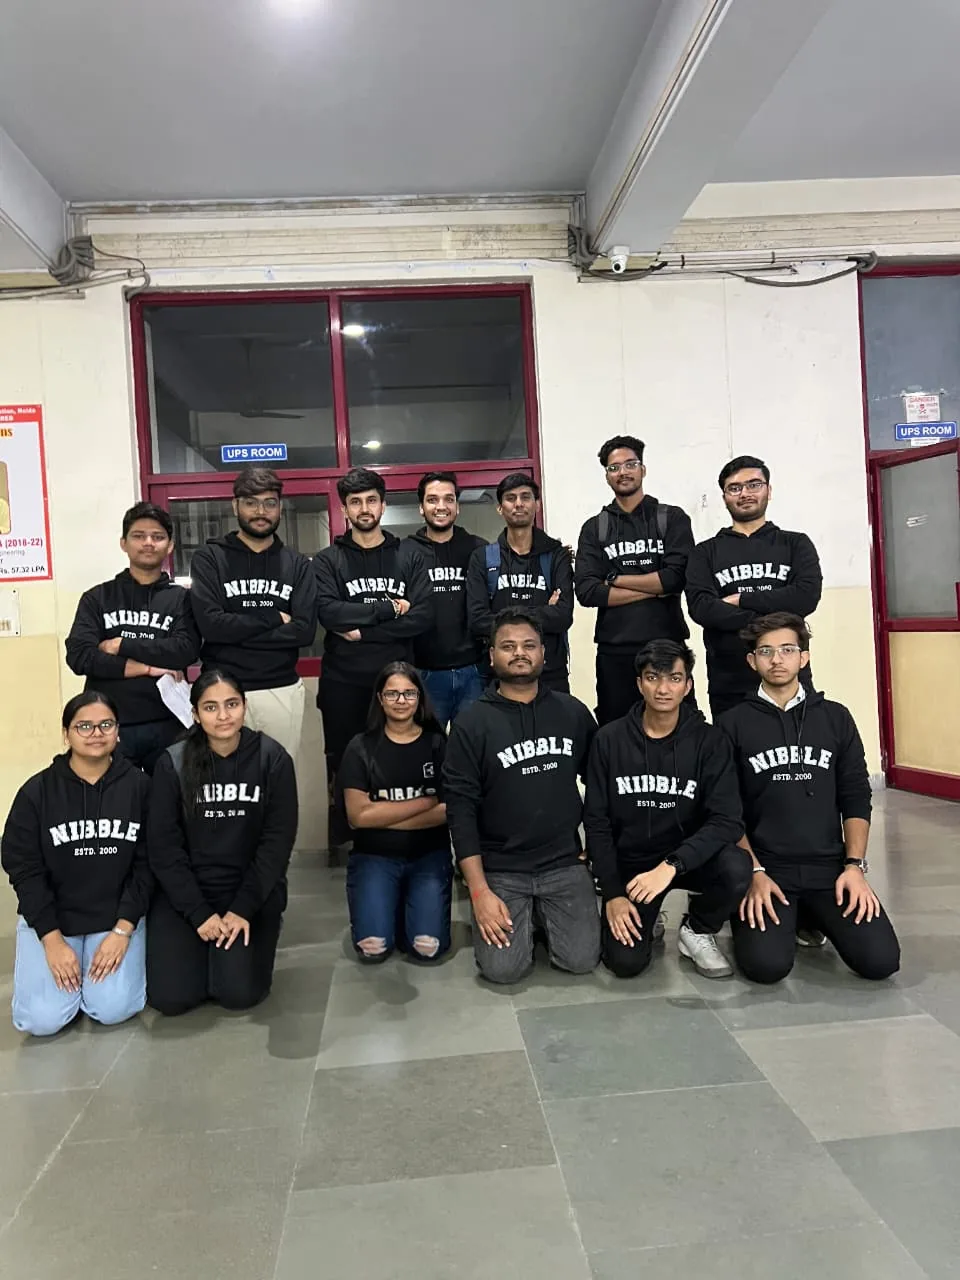
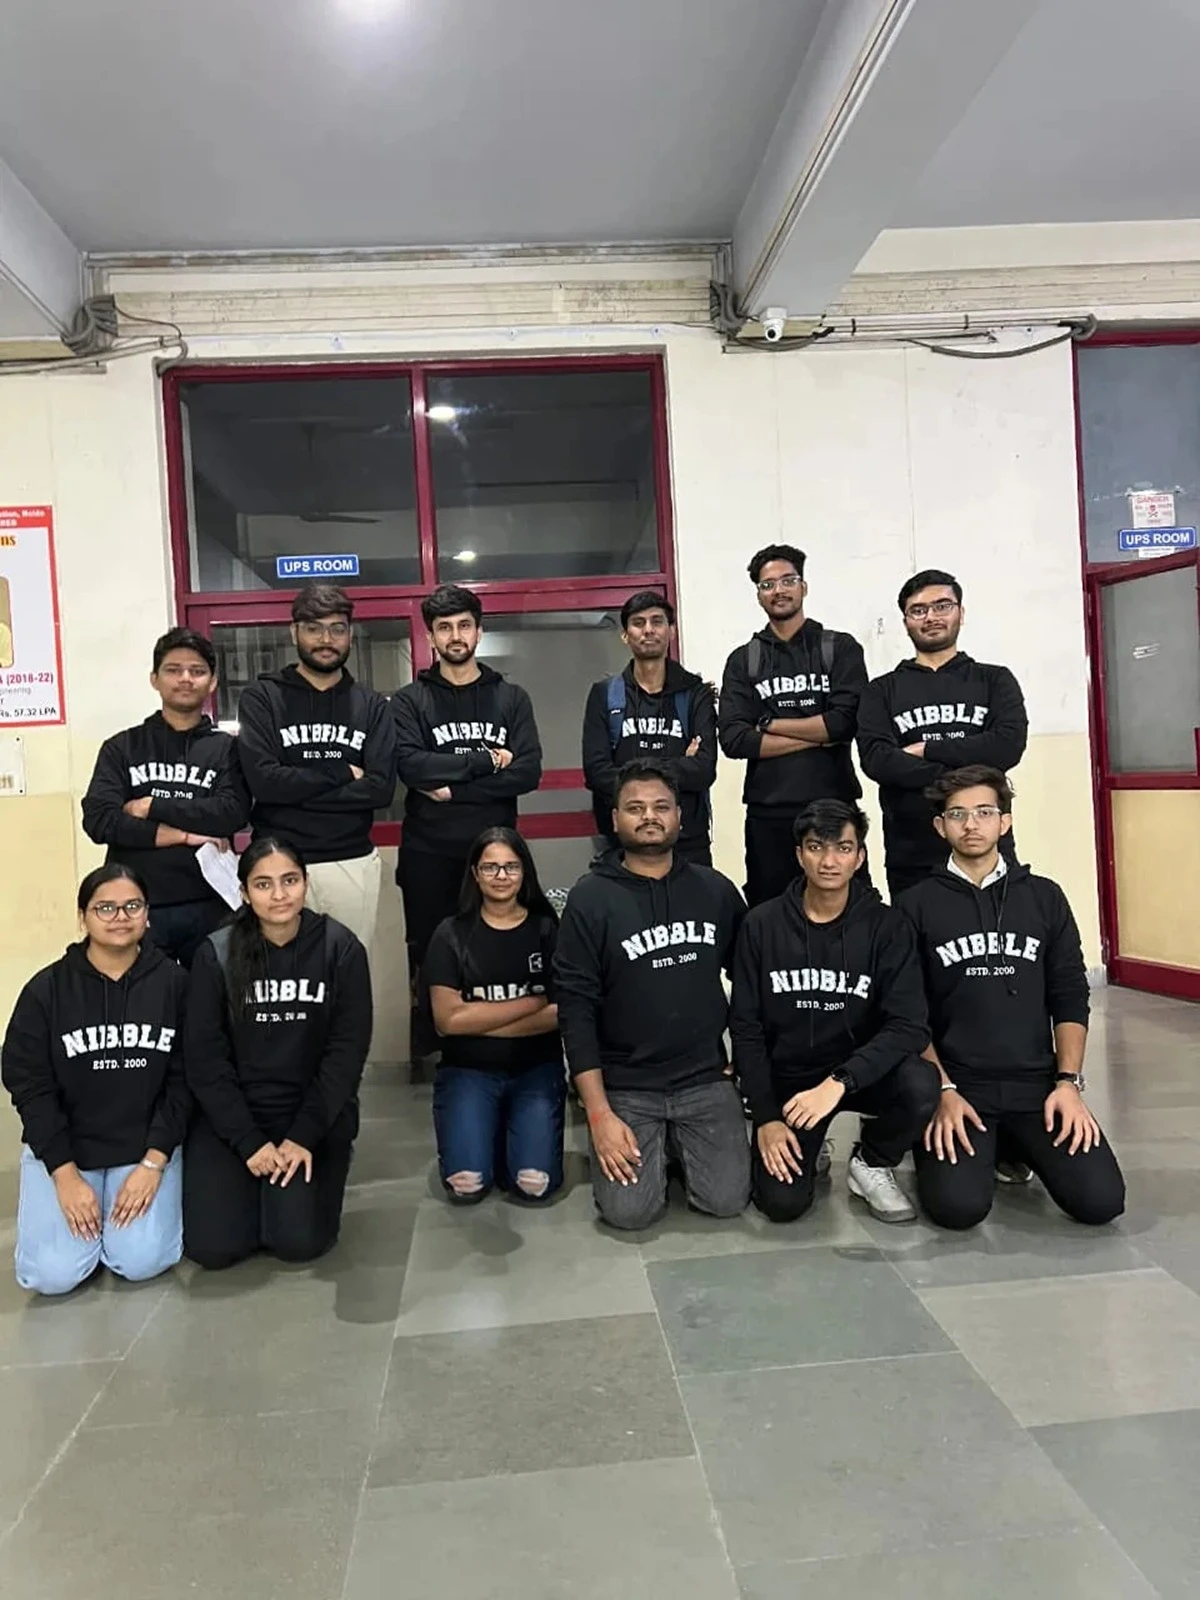
workshop gallery

diff --git a/src/data/galleryPhotos.ts b/src/data/galleryPhotos.ts
@@ -56,9 +56,9 @@ export const nibbleMonthPhotos: GalleryPhoto[] = [
   { id: "workshop-3", image: publicAsset("assets/gallery/workshop/web/workshop_03.webp"), thumb: publicAsset("assets/gallery/workshop/thumbs/workshop_03.webp"), title: "Architecture Walkthrough", caption: "Exploring frontend and backend communication" },
   { id: "workshop-4", image: publicAsset("assets/gallery/workshop/web/workshop_04.webp"), thumb: publicAsset("assets/gallery/workshop/thumbs/workshop_04.webp"), title: "Pair Programming", caption: "Collaborative problem solving and debugging" },
   { id: "workshop-5", image: publicAsset("assets/gallery/workshop/web/workshop_05.webp"), thumb: publicAsset("assets/gallery/workshop/thumbs/workshop_05.webp"), title: "Tech Mentorship", caption: "Mentors assisting students with setup and syntax" },
-  { id: "workshop-6", image: publicAsset("assets/gallery/workshop/web/workshop_06.jpeg"), thumb: publicAsset("assets/gallery/workshop/thumbs/workshop_06.webp"), title: "Interactive Lab", caption: "Real-time practice on developer tooling and Git" },
+  { id: "workshop-6", image: publicAsset("assets/gallery/workshop/web/workshop_06.webp"), thumb: publicAsset("assets/gallery/workshop/thumbs/workshop_06.webp"), title: "Interactive Lab", caption: "Real-time practice on developer tooling and Git" },
   { id: "workshop-7", image: publicAsset("assets/gallery/workshop/web/workshop_07.webp"), thumb: publicAsset("assets/gallery/workshop/thumbs/workshop_07.webp"), title: "Classroom Engagement", caption: "Deep focus during hands-on coding drills" },
-  { id: "workshop-8", image: publicAsset("assets/gallery/workshop/web/workshop_08.jpeg"), thumb: publicAsset("assets/gallery/workshop/thumbs/workshop_08.webp"), title: "Developer Sprint", caption: "Building full-stack prototypes from scratch" },
+  { id: "workshop-8", image: publicAsset("assets/gallery/workshop/web/workshop_08.webp"), thumb: publicAsset("assets/gallery/workshop/thumbs/workshop_08.webp"), title: "Developer Sprint", caption: "Building full-stack prototypes from scratch" },
   { id: "workshop-9", image: publicAsset("assets/gallery/workshop/web/workshop_09.webp"), thumb: publicAsset("assets/gallery/workshop/thumbs/workshop_09.webp"), title: "Code Review Session", caption: "Examining clean code practices and structure" },
   { id: "workshop-10", image: publicAsset("assets/gallery/workshop/web/workshop_10.webp"), thumb: publicAsset("assets/gallery/workshop/thumbs/workshop_10.webp"), title: "Domain Deep Dive", caption: "Exploring web, app, and backend stacks" },
   { id: "workshop-11", image: publicAsset("assets/gallery/workshop/web/workshop_11.webp"), thumb: publicAsset("assets/gallery/workshop/thumbs/workshop_11.webp"), title: "Problem Solving Lab", caption: "Tackling algorithmic edge cases together" },
@@ -70,7 +70,7 @@ export const nibbleMonthPhotos: GalleryPhoto[] = [
   { id: "workshop-17", image: publicAsset("assets/gallery/workshop/web/workshop_17.webp"), thumb: publicAsset("assets/gallery/workshop/thumbs/workshop_17.webp"), title: "Mentor Assistance", caption: "Individual guidance for every aspiring developer" },
   { id: "workshop-18", image: publicAsset("assets/gallery/workshop/web/workshop_18.webp"), thumb: publicAsset("assets/gallery/workshop/thumbs/workshop_18.webp"), title: "Classroom Energy", caption: "Vibrant learning environment and tech curiosity" },
   { id: "workshop-19", image: publicAsset("assets/gallery/workshop/web/workshop_19.webp"), thumb: publicAsset("assets/gallery/workshop/thumbs/workshop_19.webp"), title: "Sprint Completion", caption: "Finalizing workshop assignments and challenges" },
-  { id: "workshop-20", image: publicAsset("assets/gallery/workshop/web/workshop_20.jpeg"), thumb: publicAsset("assets/gallery/workshop/web/workshop_20.jpeg"), title: "Certificate & Wrap-up", caption: "Celebrating a month of dedicated learning and building" },
+  { id: "workshop-20", image: publicAsset("assets/gallery/workshop/web/workshop_20.webp"), thumb: publicAsset("assets/gallery/workshop/thumbs/workshop_20.webp"), title: "Certificate & Wrap-up", caption: "Celebrating a month of dedicated learning and building" },
 ]
 
 export const workshopsPhotos = nibbleMonthPhotos
@@ -97,6 +97,7 @@ export const zealiconPhotos: GalleryPhoto[] = [
   { id: "zealicon-19", image: publicAsset("assets/gallery/zealicon/web/zealicon_19.webp"), thumb: publicAsset("assets/gallery/zealicon/thumbs/zealicon_19.webp"), title: "Volunteers & Crew", caption: "The team that made Zealicon technical events a triumph" },
   { id: "zealicon-20", image: publicAsset("assets/gallery/zealicon/web/zealicon_20.webp"), thumb: publicAsset("assets/gallery/zealicon/thumbs/zealicon_20.webp"), title: "Grand Finale Cheers", caption: "Closing ceremonies celebrating technical innovation" },
 ]
+
 
 
 
